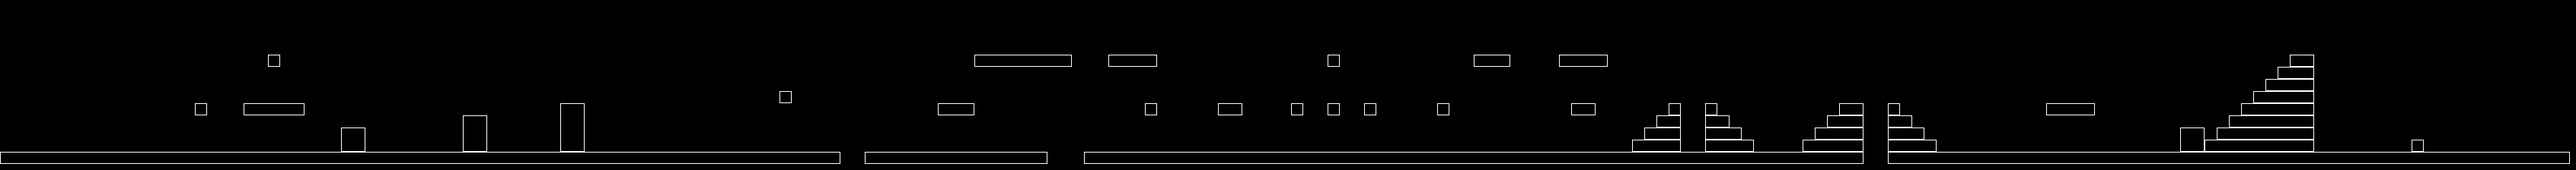
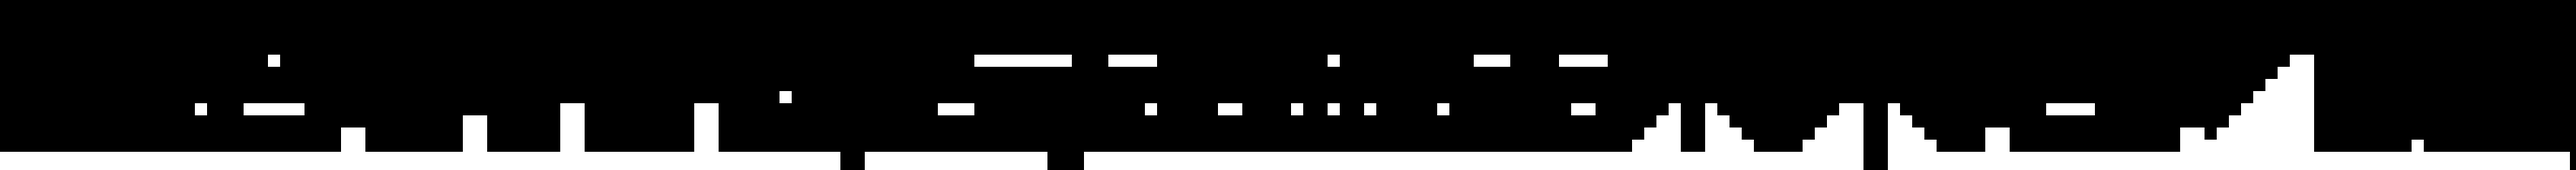
Koopa displacement, piranha plant, moving platforms

diff --git a/gamedifficulty/Processing.py b/gamedifficulty/Processing.py
@@ -2,6 +2,8 @@ import cv2 as cv
 import numpy as np
 from gamedifficulty.Constants import *
 from gamedifficulty.Types import EnemyType
+from gamedifficulty.Detection import DetectPatternMulti
+
 
 def CreateMaskFromPatternResult(detections: list[(int, int, int, int)], imageSize: (int, int)) -> cv.Mat[cv.CV_8U]:
     """
@@ -75,7 +77,8 @@ def CreateStaticDanger(collisionMask: cv.Mat[cv.CV_8U]) -> cv.Mat[cv.CV_8U]:
     return danger
 
 
-def CreateDisplacementTexture(ennemyType: EnemyType, detections: list[(int, int, int, int)], collisionMask: cv.Mat[cv.CV_8U]) -> cv.Mat[cv.CV_8U]:
+def CreateDisplacementTexture(ennemyType: EnemyType, detections: list[(int, int, int, int)],
+                              collisionMask: cv.Mat[cv.CV_8U]) -> cv.Mat[cv.CV_8U]:
     """
     Creates a displacement texture for an enemy type.
     :param ennemyType: the type of enemy
@@ -83,12 +86,16 @@ def CreateDisplacementTexture(ennemyType: EnemyType, detections: list[(int, int,
     :param collisionMask: the collision mask
     :return: the displacement texture
     """
-    if ennemyType == EnemyType.GOOMBA:
+    if ennemyType == EnemyType.GOOMBA or ennemyType == EnemyType.KOOPA or ennemyType == EnemyType.TURTLE:
         return CreateGoombaDisplacementTexture(detections, collisionMask)
+    if ennemyType == EnemyType.PIRANHA_PLANT:
+        return CreatePiranaPlantDisplacementTexture(detections, collisionMask)
 
     return np.zeros(collisionMask.shape, dtype=np.uint8)
 
-def CreateGoombaDisplacementTexture(detections: list[(int, int, int, int)], collisionMask: cv.Mat[cv.CV_8U]) -> cv.Mat[cv.CV_8U]:
+
+def CreateGoombaDisplacementTexture(detections: list[(int, int, int, int)], collisionMask: cv.Mat[cv.CV_8U]) -> cv.Mat[
+    cv.CV_8U]:
     """
     Goomba specific implementation of CreateDisplacementTexture
     """
@@ -110,7 +117,7 @@ def CreateGoombaDisplacementTexture(detections: list[(int, int, int, int)], coll
                 else:
                     break
 
-            if collisionMask[y:y+sizeY - 1, x if direction == -1 else x + sizeX].any():
+            if collisionMask[y:y + sizeY - 1, x if direction == -1 else x + sizeX].any():
                 direction = 1 if direction == -1 else -1
 
             x += direction
@@ -124,7 +131,60 @@ def CreateGoombaDisplacementTexture(detections: list[(int, int, int, int)], coll
     return result
 
 
-def CreateReachTextureFromPatternResult(shape: (int, int), detections: list[(int, int, int, int)], height: int) -> cv.Mat[cv.CV_8U]:
+# Not used and not working
+def CreateRedKoopaDisplacementTexture(detections: list[(int, int, int, int)], collisionMask: cv.Mat[cv.CV_8U]) -> \
+cv.Mat[cv.CV_8U]:
+    # Essentially the same as goomba but can't fall of ledge
+    result = np.zeros(collisionMask.shape, dtype=np.uint8)
+
+    for (y, x, sizeY, sizeX) in detections:
+        result[y:y + sizeY, x:x + sizeX] = 1
+
+        direction = -1
+
+        iter = 0
+        maxIter = 1000
+        while True and iter < maxIter:
+            iter += 1
+
+            for i in range(0, int(np.abs(gravity))):
+                if y < 0 or y + sizeY >= collisionMask.shape[0] or not collisionMask[y + sizeY, x:x + sizeX].any():
+                    y -= 1 * int(np.sign(gravity))
+                else:
+                    break
+
+            # if has ground and is in frond of a ledge
+            if collisionMask[y + sizeY, x:x + sizeX].any() and not (
+                    collisionMask[y + sizeY, x - 1].any() or collisionMask[y + sizeY, x + sizeX].any()):
+                direction = 1 if direction == -1 else -1
+            elif collisionMask[y:y + sizeY - 1, x if direction == -1 else x + sizeX].any():
+                direction = 1 if direction == -1 else -1
+
+            x += direction
+
+            result[y:y + sizeY, x:x + sizeX] = 1
+
+            # if any of the pixels outside of image break
+            if y < 0 or y + sizeY >= collisionMask.shape[0] or x < 0 or x + sizeX >= collisionMask.shape[1]:
+                break
+
+    return result
+
+
+def CreatePiranaPlantDisplacementTexture(detections: list[(int, int, int, int)], collisionMask: cv.Mat[cv.CV_8U]) -> \
+cv.Mat[cv.CV_8U]:
+    # they don't move
+
+    result = np.zeros(collisionMask.shape, dtype=np.uint8)
+
+    for (y, x, sizeY, sizeX) in detections:
+        result[y:y + sizeY, x:x + sizeX] = 1
+
+    return result
+
+
+def CreateReachTextureFromPatternResult(shape: (int, int), detections: list[(int, int, int, int)], height: int) -> \
+cv.Mat[cv.CV_8U]:
     """
     Returns a mask from the detections positions. Returns 1 if the pixel is part of a detection, 0 otherwise.
     :param detections: the detections to create the mask from
@@ -134,9 +194,101 @@ def CreateReachTextureFromPatternResult(shape: (int, int), detections: list[(int
     result = np.zeros(shape, dtype=np.uint8)
 
     for (y, x, sizeY, sizeX) in detections:
-        result[y - height:y, x:x + sizeX] = 1
+        result[max(y - height, 0):y, x:x + sizeX] = 1
+
+    for (y, x, sizeY, sizeX) in detections:
+        result[y:y + sizeY, x:x + sizeX] = 0
 
     return result
+
+
+def MergeDetection(detections: list[(int, int, int, int)]) -> list[(int, int, int, int)]:
+    # Sort by x-axis (left coordinate)
+    detections.sort(key=lambda box: box[1])
+
+    merged = []
+
+    for box in detections:
+        y, x, h, w = box
+
+        if not merged:
+            merged.append(box)
+            continue
+
+        last_y, last_x, last_h, last_w = merged[-1]
+
+        # Merge if on same horizontal line (exact y and height) and x-ranges overlap
+        if y == last_y and h == last_h and x <= last_x + last_w:
+            new_x = min(last_x, x)
+            new_w = max(last_x + last_w, x + w) - new_x
+            merged[-1] = (y, new_x, h, new_w)
+        else:
+            merged.append(box)
+
+    return merged
+
+
+def CreateMovingPlatform(levelImage: cv.Mat, platformImages: list[cv.Mat], balancePointsLeft: list[cv.Mat],
+                              balancePointsRight: list[cv.Mat]) -> list[(int, int, int, int)]:
+    # find balance points
+    pointsLeft = DetectPatternMulti(levelImage, balancePointsLeft)
+    pointsRight = DetectPatternMulti(levelImage, balancePointsRight)
+
+    pointsLeft.sort(key=lambda box: box[0])
+    pointsRight.sort(key=lambda box: box[0])
+
+    # find platforms
+    platforms = DetectPatternMulti(levelImage, platformImages)
+
+    # merge platforms that are next to each other
+    mergedPlatforms = MergeDetection(platforms)
+
+    links = []
+
+    # link each left point to its right point
+    for i, left in enumerate(pointsLeft):
+        for i, right in enumerate(pointsRight):
+            if left[1] < right[1] and left[0] == right[0]:
+                links.append((left, right))
+                pointsRight.remove(right)
+                break
+
+    # sort from top to bottom
+    mergedPlatforms.sort(key=lambda box: box[0])
+
+    def FindPlatformBelow(point):
+        px, py = point[1], point[0]
+        for platform in mergedPlatforms:
+            y, x, h, w = platform
+            if x <= px <= x + w and y >= py:
+                return platform
+        return None
+
+    result = []
+
+    # find for each link which platform is under the right and what platform is under the left
+    for left, right in links:
+        platformLeft = FindPlatformBelow(left)
+        platformRight = FindPlatformBelow(right)
+
+        if platformLeft and platformRight and platformLeft != platformRight:
+            yl, xl, hl, wl = platformLeft
+            yr, xr, hr, wr = platformRight
+
+            maxHeight = max(yl, yr)
+            minHeight = min(yl, yr)
+
+            for y in range(minHeight, maxHeight+1):
+                result.append((y, xl, hl, wl))
+                result.append((y, xr, hr, wr))
+
+    # add missing moving platforms
+    for platform in mergedPlatforms:
+        if platform not in result:
+            result.append(platform)
+
+    return result
+
 
 
 def CalculateDifficulty(pheromones: cv.Mat[cv.CV_8U], reach: cv.Mat[cv.CV_8U], windowSize: int) -> np.array(np.float32):

diff --git a/main.py b/main.py
@@ -11,10 +11,11 @@ import matplotlib.pyplot as plt
 # function CalculateDifficulty
 
 # Load the level image
+# level = "Niveau_6_3"
 level = "Niveau_1_1"
 levelImage = cv.imread(f"ressources/{level}/level.png")
 
-cv.imshow("Level", levelImage)
+# cv.imshow("Level", levelImage)
 
 # Load the sprite set (ground, enemies, etc)
 spriteSet = GD.Classes.SpriteSet("ressources/Sprite")
@@ -23,23 +24,33 @@ spriteSet = GD.Classes.SpriteSet("ressources/Sprite")
 collisionPositions = GD.Detection.DetectPatternMulti(levelImage, spriteSet.GetCollisionsTextures(), 0.85)
 collisionPositions += GD.Detection.DetectPatternMulti(levelImage, spriteSet.GetPipesTextures(), 0.85)
 
+# moving platforms must be processed a bit differently.
+passthroughPositions = GD.Processing.CreateMovingPlatform(levelImage, spriteSet.GetPlatformsTextures(), spriteSet.GetBalancePointsLeft(), spriteSet.GetBalancePointsRight())
+
 # Transform all positions into an image mask
 collisionMask = GD.Processing.CreateMaskFromPatternResult(collisionPositions, levelImage.shape[:2])
 
 # Mark all pixels mario can (theoretically) reach
-reach = GD.Processing.CreateReachTextureFromPatternResult(levelImage.shape[:2], collisionPositions, int(GD.Constants.jumpHeight))
+reach = GD.Processing.CreateReachTextureFromPatternResult(levelImage.shape[:2], collisionPositions + passthroughPositions, int(GD.Constants.jumpHeight))
 
 # Create static danger map (holes)
-staticDanger = GD.Processing.CreateStaticDanger(collisionMask)
+danger = GD.Processing.CreateStaticDanger(collisionMask)
 
-# Create goomba danger map
-# Find goombas
-goombaPositions = GD.Detection.DetectPatternMulti(levelImage, spriteSet.GetEnemyTextures(GD.Types.EnemyType.GOOMBA), 0.85)
-# Find their possible positions
-goombaDanger = GD.Processing.CreateDisplacementTexture(GD.Types.EnemyType.GOOMBA, goombaPositions, collisionMask)
+cv.imwrite(f"ressources/{level}/staticDanger.png", danger * 255)
 
-# merge static and goomba danger
-danger = np.maximum(goombaDanger, staticDanger)
+enemyDanger = np.zeros(levelImage.shape[:2], dtype=np.uint8)
+# Create enemy danger map
+for type in GD.Types.EnemyType.GetAllTypes():
+    # Find all enemies in the level
+    enemyPositions = GD.Detection.DetectPatternMulti(levelImage, spriteSet.GetEnemyTextures(type), 0.85)
+    # Find their possible positions
+    ed = GD.Processing.CreateDisplacementTexture(type, enemyPositions, collisionMask)
+
+    # merge static and enemy danger
+    enemyDanger = np.maximum(ed, enemyDanger)
+
+# Merge enemy danger and static danger
+danger = np.maximum(danger, enemyDanger)
 
 difficultyCurves = []
 # Calculate difficulty for different window sizes
@@ -65,3 +76,17 @@ plt.show()
 plt.imshow(cv.cvtColor(levelImage, cv.COLOR_BGR2RGB))
 plt.axis("off")
 plt.show()
+
+# display collision as blue, danger as red, and reach as green
+demoImg = np.zeros(levelImage.shape, dtype=np.uint8)
+demoImg[:, :, 0] = collisionMask * 255
+demoImg[:, :, 1] = reach * 255
+demoImg[:, :, 2] = danger * 255
+
+# save reach image, collision image and danger image
+cv.imwrite(f"ressources/{level}/reach.png", reach * 255)
+cv.imwrite(f"ressources/{level}/collision.png", collisionMask * 255)
+cv.imwrite(f"ressources/{level}/danger.png", danger * 255)
+cv.imwrite(f"ressources/{level}/enemyDanger.png", enemyDanger * 255)
+# save demo image
+cv.imwrite(f"ressources/{level}/demo.png", demoImg)

diff --git a/gamedifficulty/Classes.py b/gamedifficulty/Classes.py
@@ -5,6 +5,7 @@ import cv2 as cv
 from os import listdir
 from os.path import join, isfile
 
+
 class Enemy:
     x = 0
     y = 0
@@ -98,6 +99,14 @@ class SpriteSet:
         self.magicBeanTextures = LoadTexturesInFolder(f"{self.path}/MagicBean")
         self.pipesTextures = LoadTexturesInFolder(f"{self.path}/Pipes")
         self.platformsTextures = LoadTexturesInFolder(f"{self.path}/Platforms")
+        self.balancePointsLeft = [
+            cv.imread(f"{self.path}/Platforms/BalancePoint/balance_point_left.png", cv.IMREAD_COLOR),
+            cv.imread(f"{self.path}/Platforms/BalancePoint/balance_point_left_2.png", cv.IMREAD_COLOR)
+        ]
+        self.balancePointsRight = [
+            cv.imread(f"{self.path}/Platforms/BalancePoint/balance_point_right.png", cv.IMREAD_COLOR),
+            cv.imread(f"{self.path}/Platforms/BalancePoint/balance_point_right_2.png", cv.IMREAD_COLOR)
+        ]
         self.spawnTextures = LoadTexturesInFolder(f"{self.path}/Spawn")
         self.jumpUpTexture = (cv.imread(f"{self.path}/jump_up.png", cv.IMREAD_GRAYSCALE) / 255).astype('uint8')
         self.jumpDownTextures = (cv.imread(f"{self.path}/jump_down.png", cv.IMREAD_GRAYSCALE) / 255).astype('uint8')
@@ -141,6 +150,12 @@ class SpriteSet:
 
     def GetPlatformsTextures(self) -> list:
         return self.platformsTextures
+
+    def GetBalancePointsLeft(self) -> list:
+        return self.balancePointsLeft
+
+    def GetBalancePointsRight(self) -> list:
+        return self.balancePointsRight
 
     def GetSpawnTextures(self) -> list:
         return self.spawnTextures

diff --git a/gamedifficulty/Types.py b/gamedifficulty/Types.py
@@ -2,15 +2,16 @@ from enum import Enum
 
 class EnemyType(Enum):
     FLYING_KOOPA = "flying_koopa"  # MUST BE BEFORE KOOPA BECAUSE OF LOADING
-    GOOMBA = "goomba"
-    KOOPA = "koopa"
+    GOOMBA = "goomba" # done
+    KOOPA = "koopa" # done
     BOWSER = "bowser"
     LAKITU = "lakitu"
     TURTLE_SPIKE = "turtle"
     HAMMER_BRO = "hammer_bro"
     FLYING_FISH = "flying_fish"
-    PIRANHA_PLANT = "piranha_plant"
+    PIRANHA_PLANT = "piranha_plant" # done
     TURTLE = "turtle"
+    # BULLET_BILL = "bullet_bill"
 
     def __str__(self):
         return self.value
@@ -22,3 +23,16 @@ class EnemyType(Enum):
             return "koopa_volant"
         else:
             return type.value
+
+    @staticmethod
+    def GetAllTypes() -> list:
+        return [EnemyType.FLYING_KOOPA,
+                EnemyType.GOOMBA,
+                EnemyType.KOOPA,
+                EnemyType.BOWSER,
+                EnemyType.LAKITU,
+                EnemyType.TURTLE_SPIKE,
+                EnemyType.HAMMER_BRO,
+                EnemyType.FLYING_FISH,
+                EnemyType.PIRANHA_PLANT,
+                EnemyType.TURTLE]
